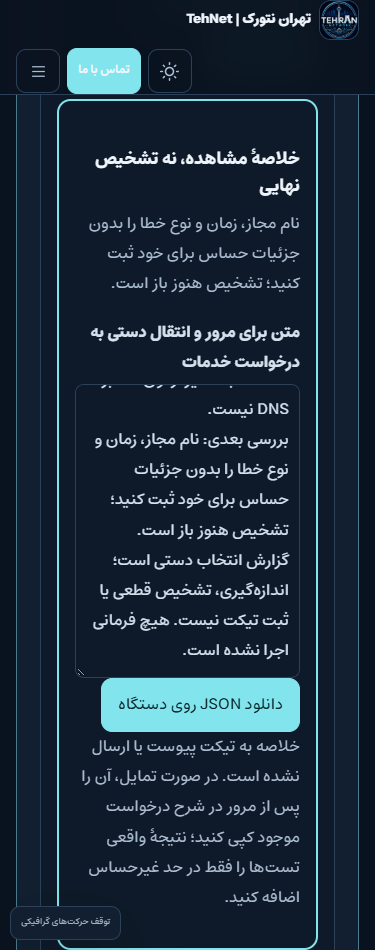
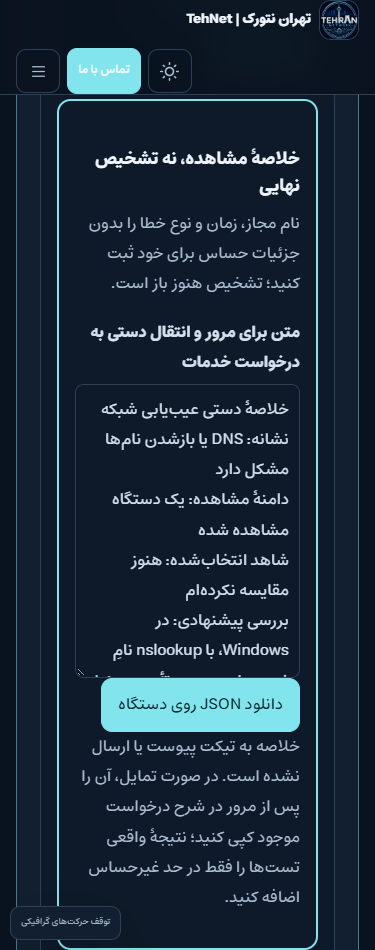
docs: qualify corrected native manual triage and service handoff

Changed region(s): [[0.2347, 0.4274, 0.7627, 0.7021]]

diff --git a/docs/reports/NETWORK_TRIAGE_2026-11-04.fa.md b/docs/reports/NETWORK_TRIAGE_2026-11-04.fa.md
@@ -1,8 +1,8 @@
 # تصمیمیار دستی عیبیابی شبکه —۴نوامبر۲۰۲۶
 
-وضعیت: **VERIFIED_STAGING اولیه؛ اصلاح خواندن گزارش در انتظار qualification تازه، NOT_DEPLOYED**. این ابزار مبتنی بر قواعد قابل بازبینی است؛ AI، ابزار تشخیص زنده یا اتصال RouterOS نیست. هیچ تشخیص قطعی، فرمان خودکار، اطلاعات حساس، ذخیره در مرورگر یا backend موازی ندارد.
+وضعیت: **VERIFIED_STAGING_NOT_DEPLOYED**. این ابزار مبتنی بر قواعد قابل بازبینی است؛ AI، ابزار تشخیص زنده یا اتصال RouterOS نیست. هیچ تشخیص قطعی، فرمان خودکار، اطلاعات حساس، ذخیره در مرورگر یا backend موازی ندارد.
 
-بازبینی تصویر موبایل، بازشدن textarea گزارش از وسط متن را نشان داد. probe واقعی با کد قبلی `scrollTop=473/selectionStart=706` بود؛ پس از انتقال نشانگر به ابتدای متن `0/0` و PASS شد. این شرط به پذیرش مرورگر سایت اضافه شد. رسید source312d69c/236 شاهد نسخهٔ قبلی است؛ نسخهٔ JS اصلاحشده باید با منبع immutable تازه qualify شود و قبل از آن منتشر نشود.
+بازبینی تصویر موبایل، بازشدن textarea گزارش از وسط متن را نشان داد. probe واقعی با کد قبلی `scrollTop=473/selectionStart=706` بود؛ پس از انتقال نشانگر به ابتدای متن `0/0` و PASS شد. این شرط به پذیرش مرورگر سایت اضافه شد. نسخهٔ اصلاحشده با source `7d90b4b58d6186edbfab10800d53fd639a1ca9f6`، native44 و257بررسی یکپارچه دوباره qualify و تمام حالتهای گزارش از ابتدای متن تأیید شد. رسید اولیهٔ source312d69c/236 در تاریخچه محفوظ است؛ تولید هنوز منتشر نشده است.
 
 هفت مسیر: اینترنت، DNS، DHCP، VPN، ارتباط VLANها، NAT و Gateway. سه مرحلهٔ نشانه/دامنه/شاهد، دلیل تست پیشنهادی و بررسی بعدی دارند؛ «هنوز بررسی نشده» یک وضعیت معتبر است. گزارش متنیِ فقطخواندنی و JSON محلی ساخته میشوند؛ انتخاب مسئله یا بازگشت، شاهد/گزارش نامعتبر قبلی را پاک میکند. چند نمونه مستقلاند. گزارش خودکار به تیکت متصل نمیشود؛ کاربر میتواند خلاصهٔ مرورشده را دستی در همان فرم فعلی خدمات کپی کند. CTA با context موجود `network-support` است؛ خدمات تخصصی PBX/IVR به MyTel ارجاع دارند.
 
@@ -24,7 +24,7 @@
 
 ## شواهد پیادهسازی
 
-چهار آزمون Node برای هفت مسیر، ورودی ناشناس/prototype، حذف فیلد اضافه و استقلال گزارش موفقاند. در renderer واقعی WordPressِ preview بسته،38assertion و حفظ همهٔ جدولهای DB و runtimeها تأیید شد. مؤلفهٔ دو نمونهای با571بررسی مرورگر و56دانلود واقعی JSON،1440/768/375/320 دو تم و320بدون JS بررسی شد. این مرحله fixture محلیِ خروجی WordPress بود؛ سفر سایت یا انتشار production محسوب نمیشود. سپس نام متغیرهای CSS با قالب واقعی تطبیق و عنوان منبع VPN دقیقتر شد؛ پذیرش یکپارچهٔ نهایی با CSS واقعی:236بررسیِ سایت، هر7مسئله، تمهای روشن/تیره،1440/768/375/320 و320no-JS؛ دانلود واقعی JSON و CTA تا context/nonce/action موجود موفق شد. فایلها در Services نامرتبط بارگیری نشدند.
+چهار آزمون Node برای هفت مسیر، ورودی ناشناس/prototype، حذف فیلد اضافه و استقلال گزارش موفقاند. در renderer واقعی WordPressِ preview بسته،38assertion و حفظ همهٔ جدولهای DB و runtimeها تأیید شد. مؤلفهٔ دو نمونهای با571بررسی مرورگر و56دانلود واقعی JSON،1440/768/375/320 دو تم و320بدون JS بررسی شد. این مرحله fixture محلیِ خروجی WordPress بود؛ سفر سایت یا انتشار production محسوب نمیشود. سپس نام متغیرهای CSS با قالب واقعی تطبیق و عنوان منبع VPN دقیقتر شد؛ پذیرش یکپارچهٔ نهایی با CSS واقعی:257بررسیِ سایت، هر7مسئله، تمهای روشن/تیره،1440/768/375/320 و320no-JS؛ دانلود واقعی JSON و CTA تا context/nonce/action موجود موفق شد. فایلها در Services نامرتبط بارگیری نشدند.
 
 آمادهساز محلی ابتدا به قرارداد fd قفل و طول فرمان Windows برخورد کرد؛ هر دو پیش از عمل remote بودند. شمارندهٔ نخست WP-CLI به علت scope روش eval-file صفر بود و بهعنوان پذیرش شمارش نشد؛ با global صحیح،38 مورد ثبت شد. فایلهای موقت همان اجرای بومی پاک و همهٔ جدولها/runtimeها برابر بودند؛ گزارش خام خصوصی باقی است.
 
@@ -32,4 +32,4 @@
 
 همان Lab7 و `/lab/#network-troubleshooting`، با حفظ عنوان/URL/excerpt/meta و همهٔ محتوای قبلی. بدنهٔ زنده با ترکیب دقیق دو artifact عمومی remediation2026-10-16 و growth2026-10-31 به هش `c7ef5a3…` تطبیق شد. فقط ابزار به انتهای محتوا اضافه و یادداشت ویراستاری به انتهای کل مطلب منتقل میشود. scope جدید چهار فایل PHP/JS/CSS/loader و فقط post_content7 دارد؛ Home، منو،۲۵کالا، مشتری/سفارش/تیکت/پیشفاکتور، noindex، پرداخت، CAPTCHA و MyTel در مالکیت آن نیستند. loader پس از فایلهای وابسته نصب و پیش از آنها rollback میشود.
 
-مرز scope ابتدا RED شد و پس از ثبت،31آزمون اجرا شد:30PASS/1SKIP مربوط به symlink Windows. native44 برای مهاجرت، check/apply/repeat/rollback/repeat،4فایل و1بدنه، رد Home/shortcode نامجاز/HTML خام، حفظ revision و drift/row-lock موفق شد. همهٔ داده/revision/فایل/runtime قبلی دقیقاً بازیابی شد؛0ارسال و0تغییر production. [receipt و تصاویر](../evidence/2026-11-04/network-triage/native-staging.json)، source `312d69ce548c7656c26838ced9a8b16cd85b0a56`. تصویر قبل، نمای Lab بدون ابزار و بعد، viewport نتیجهٔ ابزار است؛ مقایسهٔ یک viewport یکسان یا بازطراحی کل قالب نیست. گام فوری PR/CI و فقط انتشار مجاز با backup تازه/checksum/drift/rollback. تا رسید نهایی، DEPLOYED نامیده نشود. Issues63/75 باز؛ FeatureB لاب مفهومی و بازبینی کامل ضبطها هنوز بازند. هیچ parity، rank، traffic، تبدیل یا نتیجهٔ مشتری ادعا نمیشود.
+مرز scope ابتدا RED شد و پس از ثبت،31آزمون اجرا شد:30PASS/1SKIP مربوط به symlink Windows. native44 برای مهاجرت، check/apply/repeat/rollback/repeat،4فایل و1بدنه، رد Home/shortcode نامجاز/HTML خام، حفظ revision و drift/row-lock موفق شد. همهٔ داده/revision/فایل/runtime قبلی دقیقاً بازیابی شد؛0ارسال و0تغییر production. [receipt و تصاویر](../evidence/2026-11-04/network-triage/native-staging.json)، source `7d90b4b58d6186edbfab10800d53fd639a1ca9f6`. تصویر قبل، نمای Lab بدون ابزار و بعد، viewport نتیجهٔ ابزار است؛ مقایسهٔ یک viewport یکسان یا بازطراحی کل قالب نیست. گام فوری PR/CI و فقط انتشار مجاز با backup تازه/checksum/drift/rollback. تا رسید نهایی، DEPLOYED نامیده نشود. Issues63/75 باز؛ FeatureB لاب مفهومی و بازبینی کامل ضبطها هنوز بازند. هیچ parity، rank، traffic، تبدیل یا نتیجهٔ مشتری ادعا نمیشود.

diff --git a/HANDOFF.md b/HANDOFF.md
@@ -1,4 +1,10 @@
-## CURRENT —2026-11-04 triage report-start fix: fresh qualification pending
+## CURRENT —2026-11-04 manual network triage VERIFIED_STAGING_NOT_DEPLOYED
+
+Source7d90b4b58d6186edbfab10800d53fd639a1ca9f6 با native44 و site-browser257 پس از اصلاح گزارش موبایل qualify شد؛ همهٔ گزارشها از ابتدای متن باز میشوند.7مسئله،3مرحله، unknown/text/JSON،1440/768/375/320 دو تم/no-JS، CTA تا فرم/context/nonce/action فعلی و بارگیری شرطی فایلها تأیید.4runtime-file وpost_content7،0page/0backend؛ همهٔ داده/revision/fixture/files/runtime دقیقاً بازیابی،0ارسال و0تغییر production. receipt: docs/evidence/2026-11-04/network-triage/native-staging.json.
+
+گام فوری PR/CI و برابری payload/tool/guards با همین source، انتشار محدود با backup تازه/checksum/drift/rollback و live verify؛ تا receipt deployed نامیده نشود. FeatureB لاب مفهومی، بازبینی کامل8ضبط و شواهد اعتماد بازند. تمام releaseهای پیشین دوباره اجرا نشوند. MyTel read-only، noindex/payment/security/rotation/history/origin/CAPTCHA ثابت؛63/75 باز و parity نامحرز.
+
+## HISTORICAL CHECKPOINT —2026-11-04 triage report-start fix: fresh qualification pending
 
 پس از source312d69c/236، ایراد شروع گزارش از وسط در موبایل بازتولید و اصلاح شد: scrollTop473/selectionStart706 به0/0 رسید. assertion سایت اضافه شد؛ تا native qualification تازه، نسخهٔ جدید منتشر نشود.
 

diff --git a/PROGRESS.md b/PROGRESS.md
@@ -1,4 +1,10 @@
-## CURRENT —2026-11-04 triage report-start fix: fresh qualification pending
+## CURRENT —2026-11-04 manual network triage VERIFIED_STAGING_NOT_DEPLOYED
+
+Source7d90b4b58d6186edbfab10800d53fd639a1ca9f6 با native44 و site-browser257 پس از اصلاح گزارش موبایل qualify شد؛ همهٔ گزارشها از ابتدای متن باز میشوند.7مسئله،3مرحله، unknown/text/JSON،1440/768/375/320 دو تم/no-JS، CTA تا فرم/context/nonce/action فعلی و بارگیری شرطی فایلها تأیید.4runtime-file وpost_content7،0page/0backend؛ همهٔ داده/revision/fixture/files/runtime دقیقاً بازیابی،0ارسال و0تغییر production. receipt: docs/evidence/2026-11-04/network-triage/native-staging.json.
+
+گام فوری PR/CI و برابری payload/tool/guards با همین source، انتشار محدود با backup تازه/checksum/drift/rollback و live verify؛ تا receipt deployed نامیده نشود. FeatureB لاب مفهومی، بازبینی کامل8ضبط و شواهد اعتماد بازند. تمام releaseهای پیشین دوباره اجرا نشوند. MyTel read-only، noindex/payment/security/rotation/history/origin/CAPTCHA ثابت؛63/75 باز و parity نامحرز.
+
+## HISTORICAL CHECKPOINT —2026-11-04 triage report-start fix: fresh qualification pending
 
 پس از source312d69c/236، ایراد شروع گزارش از وسط در موبایل بازتولید و اصلاح شد: scrollTop473/selectionStart706 به0/0 رسید. assertion سایت اضافه شد؛ تا native qualification تازه، نسخهٔ جدید منتشر نشود.
 

diff --git a/TASKS.md b/TASKS.md
@@ -1,4 +1,10 @@
-## CURRENT —2026-11-04 triage report-start fix: fresh qualification pending
+## CURRENT —2026-11-04 manual network triage VERIFIED_STAGING_NOT_DEPLOYED
+
+Source7d90b4b58d6186edbfab10800d53fd639a1ca9f6 با native44 و site-browser257 پس از اصلاح گزارش موبایل qualify شد؛ همهٔ گزارشها از ابتدای متن باز میشوند.7مسئله،3مرحله، unknown/text/JSON،1440/768/375/320 دو تم/no-JS، CTA تا فرم/context/nonce/action فعلی و بارگیری شرطی فایلها تأیید.4runtime-file وpost_content7،0page/0backend؛ همهٔ داده/revision/fixture/files/runtime دقیقاً بازیابی،0ارسال و0تغییر production. receipt: docs/evidence/2026-11-04/network-triage/native-staging.json.
+
+گام فوری PR/CI و برابری payload/tool/guards با همین source، انتشار محدود با backup تازه/checksum/drift/rollback و live verify؛ تا receipt deployed نامیده نشود. FeatureB لاب مفهومی، بازبینی کامل8ضبط و شواهد اعتماد بازند. تمام releaseهای پیشین دوباره اجرا نشوند. MyTel read-only، noindex/payment/security/rotation/history/origin/CAPTCHA ثابت؛63/75 باز و parity نامحرز.
+
+## HISTORICAL CHECKPOINT —2026-11-04 triage report-start fix: fresh qualification pending
 
 پس از source312d69c/236، ایراد شروع گزارش از وسط در موبایل بازتولید و اصلاح شد: scrollTop473/selectionStart706 به0/0 رسید. assertion سایت اضافه شد؛ تا native qualification تازه، نسخهٔ جدید منتشر نشود.
 
